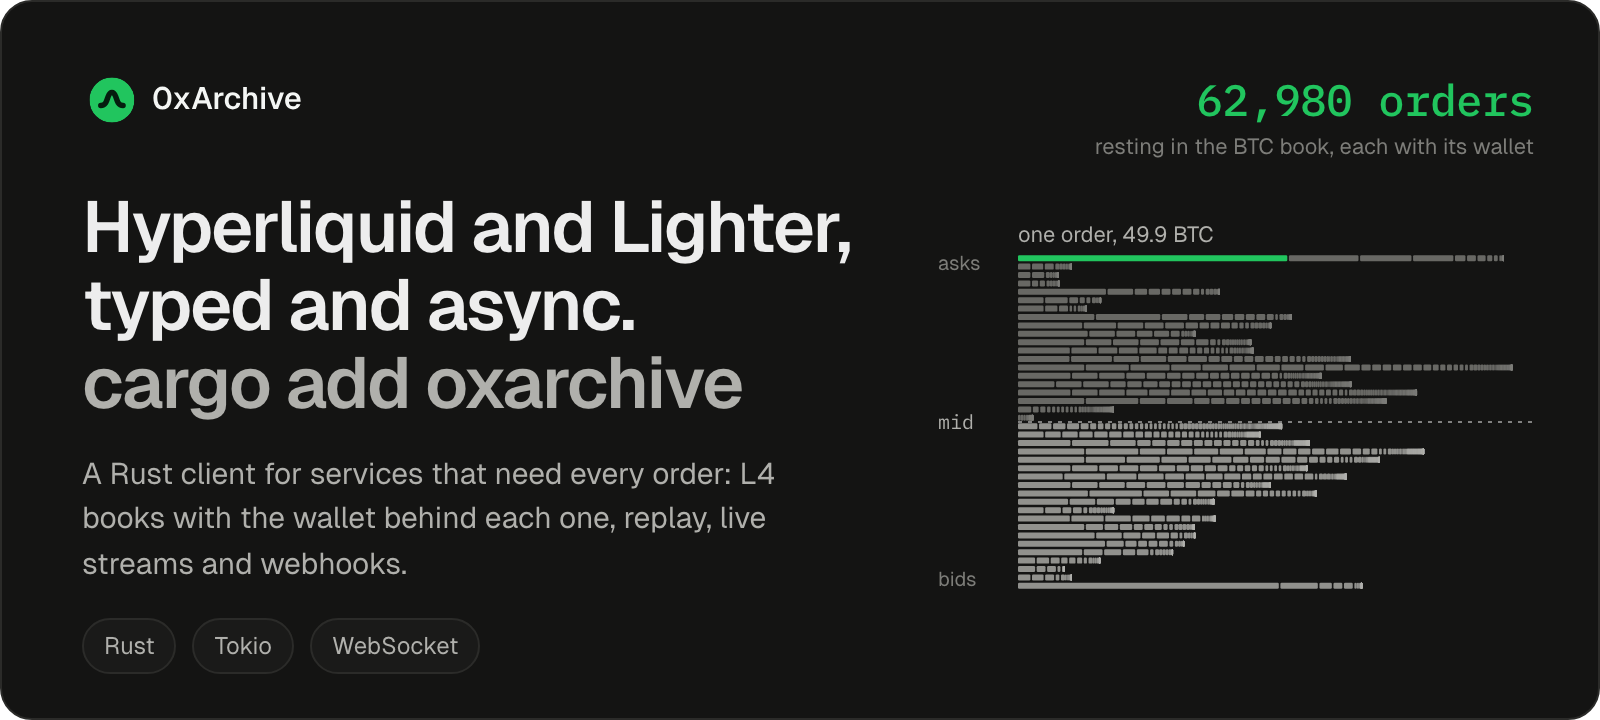
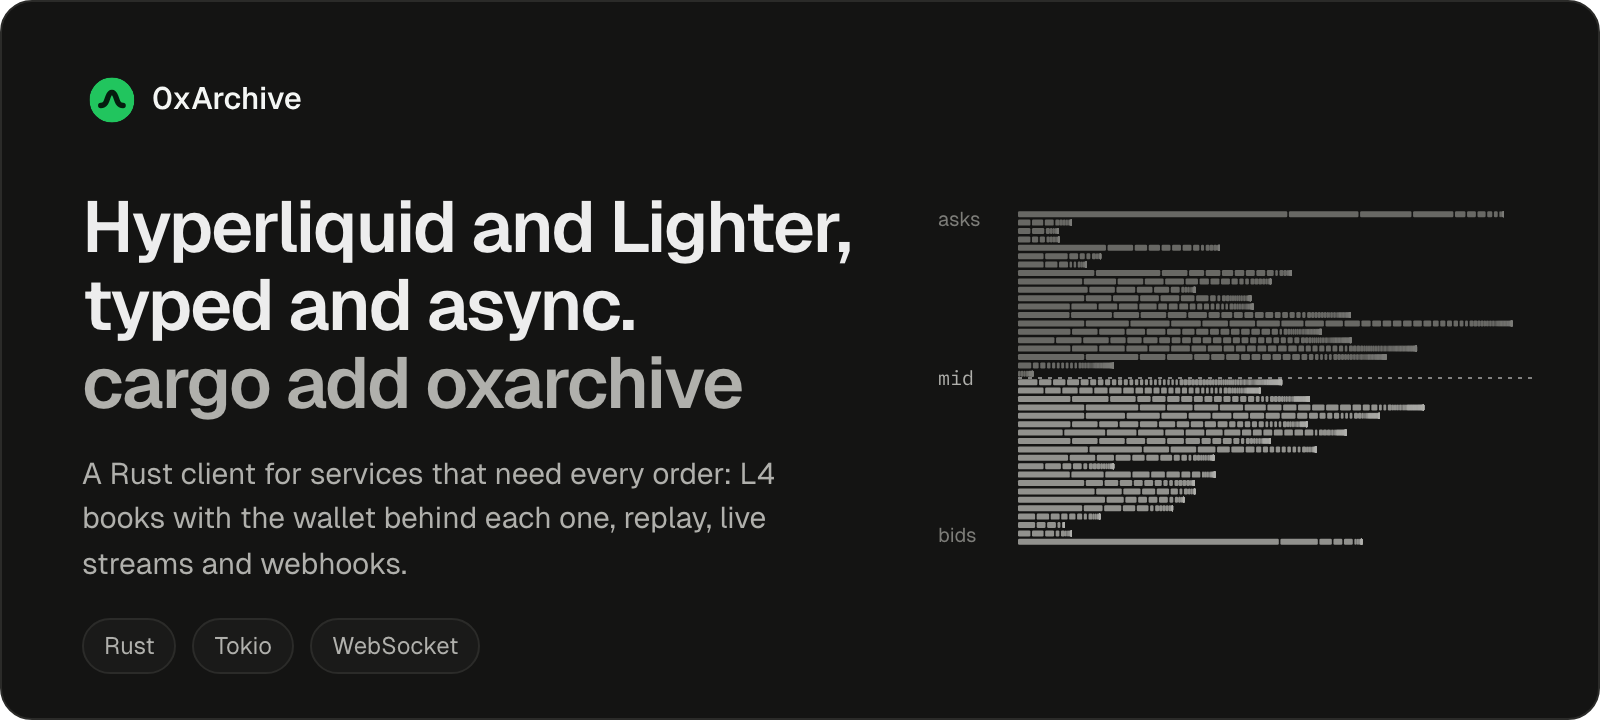
README hero: drop the stat lines and callouts
The hero is a picture of what the product does, not a claim to prove. The big
number and its label, the in-chart callouts and the per-row counts go; the
chart moves up into the space. Alt text describes the picture instead of
repeating the stats.

Changed region(s): [[0.5938, 0.275, 0.9375, 0.825], [0.6875, 0.1222, 0.9688, 0.2139]]

diff --git a/README.md b/README.md
@@ -2,7 +2,7 @@
 
 <picture>
   <source media="(prefers-color-scheme: dark)" srcset="https://raw.githubusercontent.com/0xArchiveIO/sdk-rust/HEAD/assets/readme/hero-dark.png">
-  <img alt="oxarchive, the 0xArchive Rust SDK: Hyperliquid and Lighter, typed and async. The BTC order book near the mid, drawn one resting order at a time, out of 62,980 orders." src="https://raw.githubusercontent.com/0xArchiveIO/sdk-rust/HEAD/assets/readme/hero-light.png" width="800">
+  <img alt="oxarchive, the 0xArchive Rust SDK: Hyperliquid and Lighter, typed and async. The BTC order book near the mid, drawn one resting order at a time." src="https://raw.githubusercontent.com/0xArchiveIO/sdk-rust/HEAD/assets/readme/hero-light.png" width="800">
 </picture>
 
 <a href="https://crates.io/crates/oxarchive"><img alt="crates.io: oxarchive" src="https://img.shields.io/crates/v/oxarchive?style=flat-square&label=crates.io&labelColor=3a3a37&color=21C55E"></a> <a href="https://docs.rs/oxarchive"><img alt="docs.rs" src="https://img.shields.io/docsrs/oxarchive?style=flat-square&label=docs.rs&labelColor=3a3a37&color=21C55E"></a> <img alt="rust: 1.85+" src="https://img.shields.io/badge/rust-1.85+-21C55E?style=flat-square&labelColor=3a3a37"> <img alt="license: MIT" src="https://img.shields.io/badge/license-MIT-21C55E?style=flat-square&labelColor=3a3a37"> <img alt="data: Hyperliquid · Lighter" src="https://img.shields.io/badge/data-Hyperliquid_·_Lighter-21C55E?style=flat-square&labelColor=3a3a37">
